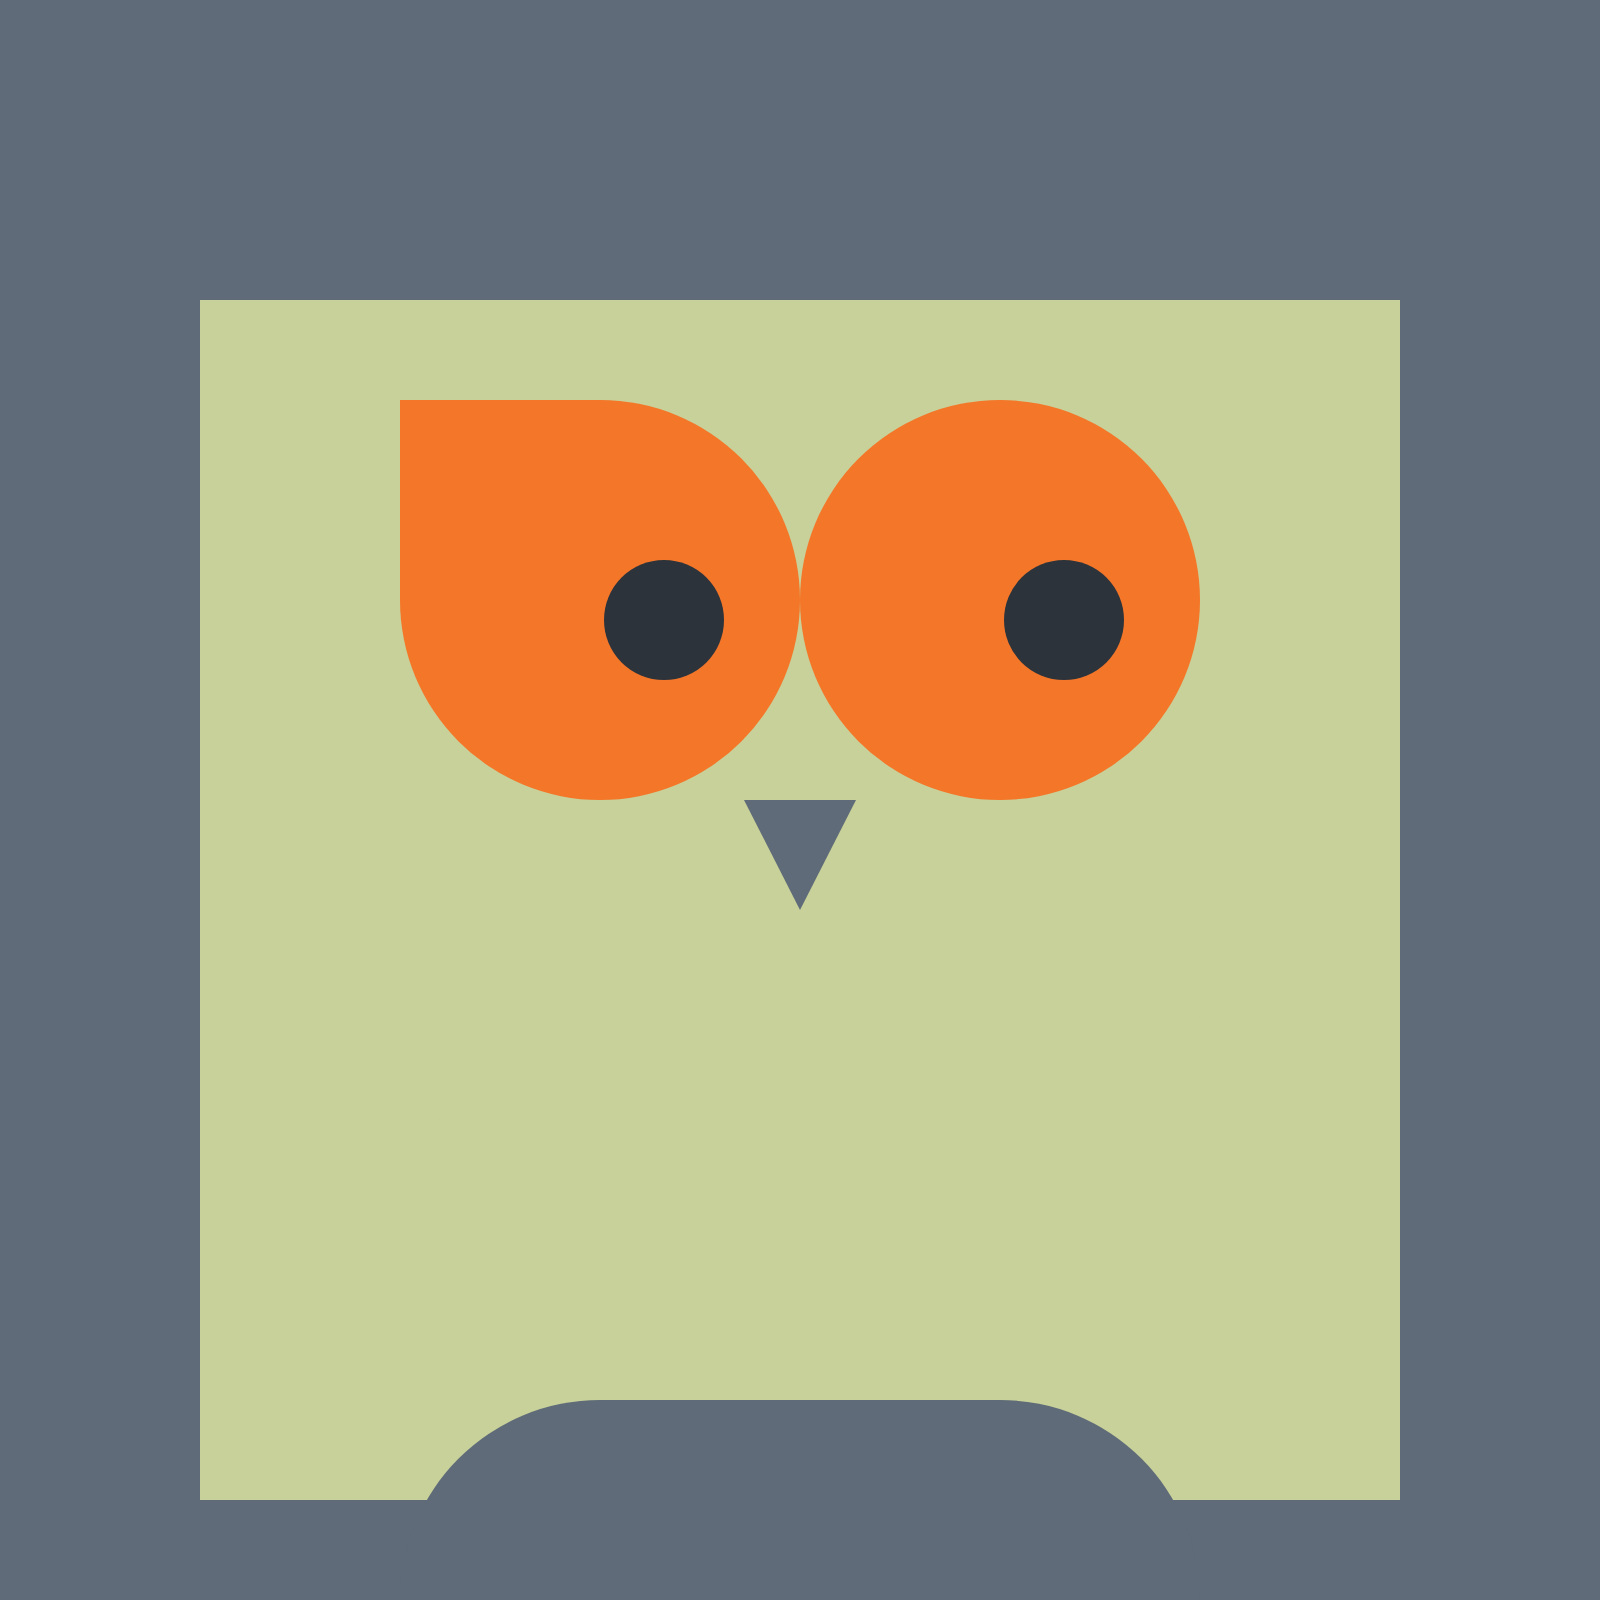
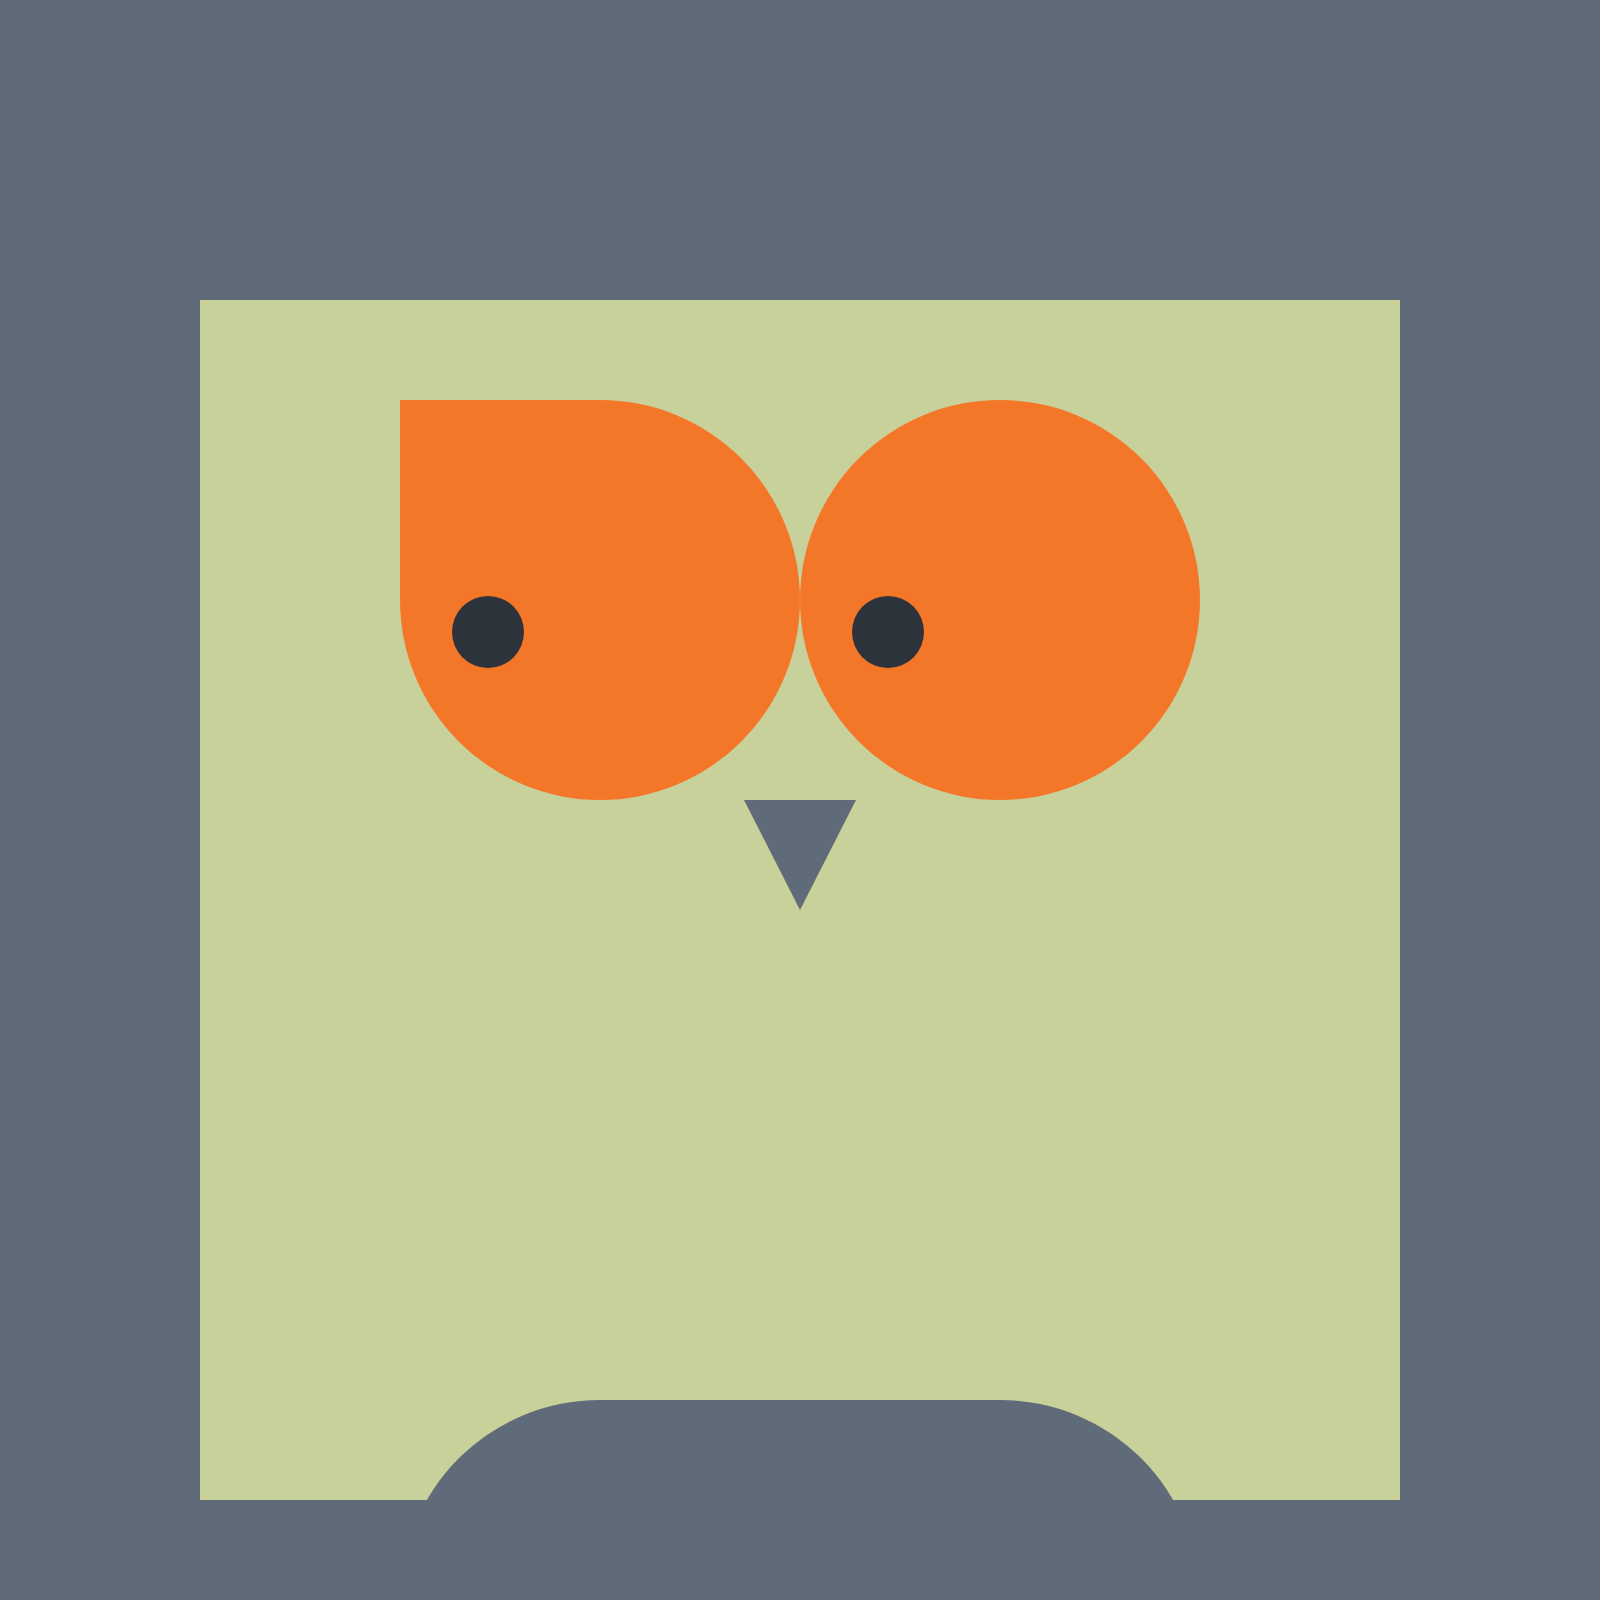
Night Watch: adopt the reference sheet's sideways gaze
Measured from the earlier multicolour Night Watch sheet: small pupils
(r 0.18) pressed to the left of each eye and a little low. The orange
beak from that sheet was tested and not adopted; the cut-out stays.
All twenty prints, the sheet and the preview re-rendered and verified.

Claude-Session: https://claude.ai/code/session_01GZLWUsEyPm8A2JDCqK9hpp

diff --git a/studies/night-watch/README.md b/studies/night-watch/README.md
@@ -42,7 +42,7 @@ The owl is built on the Opepen 8 × 8 schematic (`opepen-schematics.svg`, coordi
 - **Right eye:** a disc centred at (5, 3), radius 1. The two eyes touch at (4, 3).
 - **Lower face:** the schematic mouth, x 2–6, y 4–6. The beak is a wedge cut out of its top edge, 0.56 wide and 0.55 deep. With the curved gap between the eyes, it reads as a beak.
 - **Bust:** the schematic torso, x 2–6, y 7–8, resting on the bottom edge.
-- **Gaze:** both pupils have radius 0.3 and sit 0.32 right and 0.1 down from each eye's centre. That gives one dry sideways glance.
+- **Gaze:** both pupils have radius 0.18 and sit 0.56 left and 0.16 down from each eye's centre. They press against the left edge of each eye. This gaze was measured from the earlier multicolour Night Watch sheet, to keep its dry, slightly strange sideways look.
 - **Fields:** an outer square field and an inner field 6 × 6 at (1, 1.5). The inner field is set low, like Homage to the Square, with bottom, side and top margins of 0.5, 1 and 1.5. The bust crosses the inner field's bottom edge. When the bust takes the outer colour, it rises out of the frame. When it takes the inner colour, it drops a tab into the frame.
 
 The owl has no ears, feathers, wings, outlines or highlights. The colour of each part comes from the palette. If the face takes the inner colour, it disappears. If the beak takes the inner colour, the cut-out shows through.
@@ -79,7 +79,7 @@ The quiet place to land is the centre column (Bone, Soot and Dusk), with Signal 
 - Josef Albers, *Interaction of Color*, 1963. Example museum records: the [Hood Museum of Art](https://hoodmuseum.dartmouth.edu/objects/pr.981.91) and the [National Gallery of Art](https://www.nga.gov/artworks/55903-interaction-color). The study used the exercise in which one colour appears as two. A small patch of one colour sits on two large grounds. Each ground surrounds the patch on every side and is many times its area. The ground pulls the patch away from itself: a lighter ground darkens it, and a ground in more of the patch's own hue takes that hue away. This set the inner field's role and its six-to-one area.
 - Josef Albers, *Homage to the Square*, from 1950. For example, [*Nacre* from *Homage to the Square: Soft Edge—Hard Edge*](https://www.nga.gov/artworks/61037-nacre-homage-square-soft-edge-hard-edge) at the National Gallery of Art. The nested squares sit low, with a narrow bottom margin, wider sides and the widest top. Each colour touches only its immediate neighbours, so the inner colour is always seen through the one around it. This set the low inner field and its margins.
 
-The museum pages could not be opened from the build environment because the network blocked them. The Albers notes come from these well-documented works, not from new image analysis. The two attached reference sheets (the orange Night Watch sheet and the multicolour sheet) did not arrive with the request. The response to the "identical badges" problem is based on the written description.
+The museum pages could not be opened from the build environment because the network blocked them. The Albers notes come from these well-documented works, not from new image analysis. The multicolour reference sheet arrived after the first build. The gaze was then measured from it and adopted. Its orange beak was tested against the cut-out and not used: the cut-out is lighter, and pair J needs a beak that can disappear. The sheet also confirms the badge problem, with the same cream face in all twenty tiles. The orange Night Watch sheet has not been seen.
 
 ## Restraints kept
 
